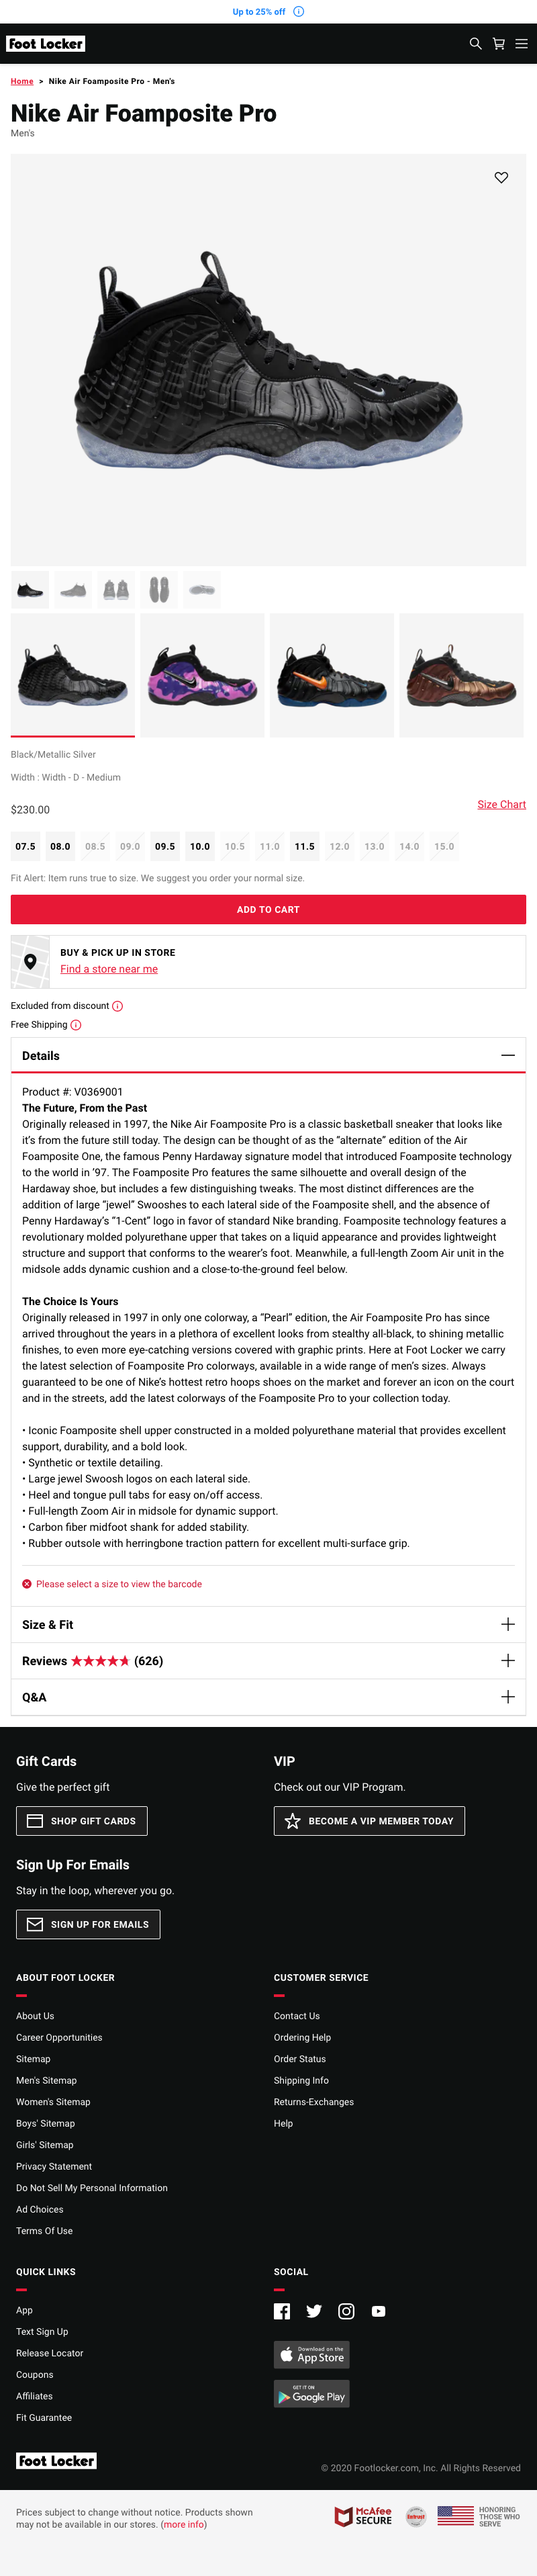
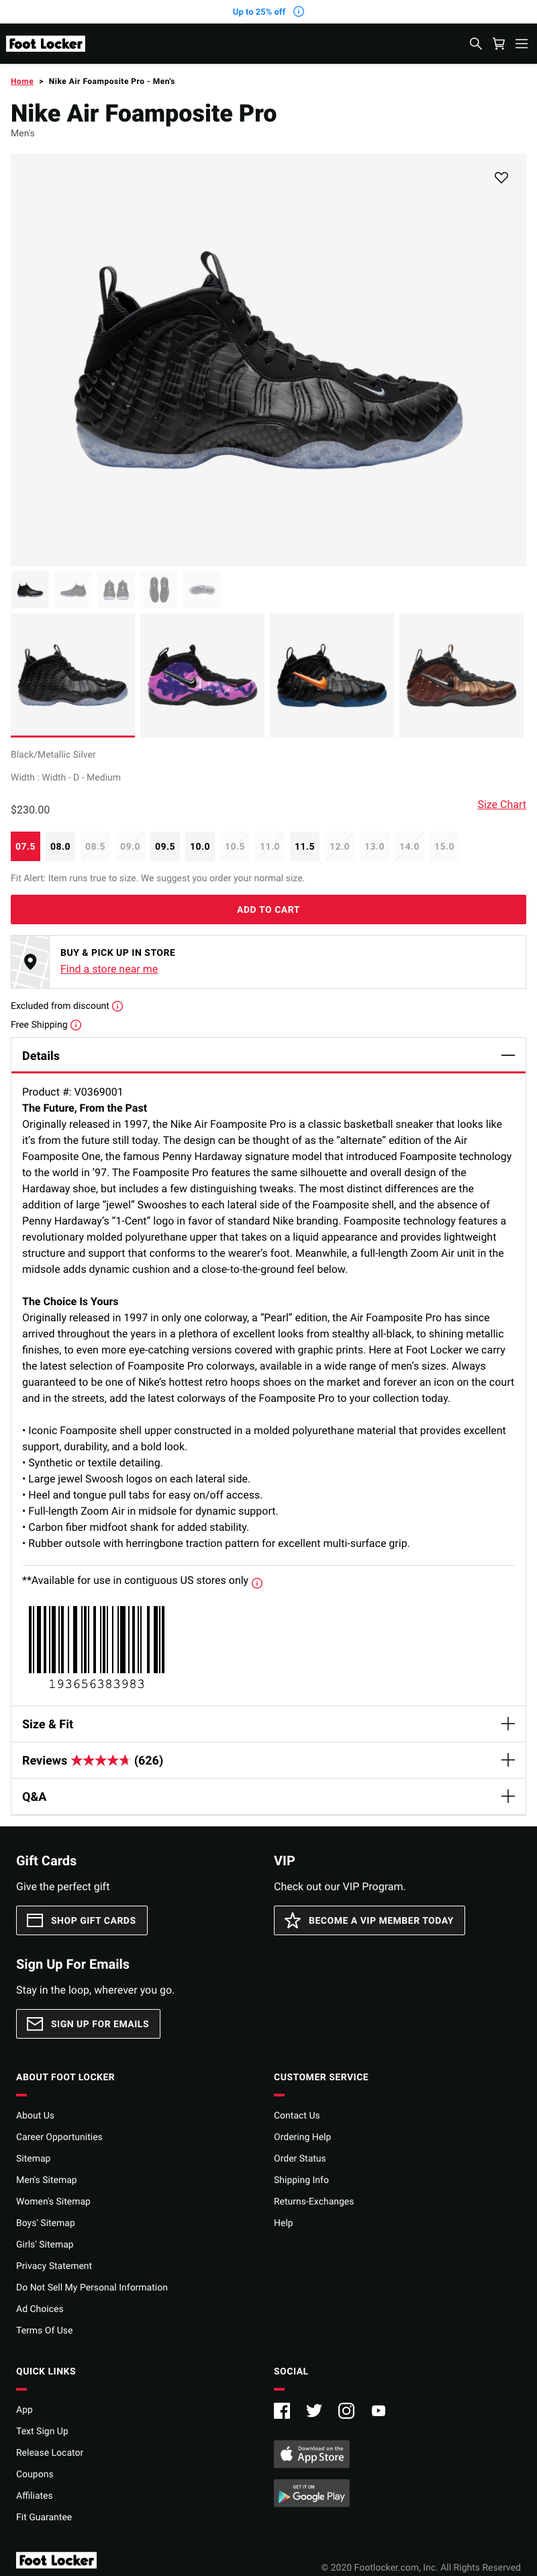
more tests

diff --git a/screenshot2.js b/screenshot2.js
@@ -38,27 +38,28 @@ puppeteer.launch({ headless: true }).then(async browser => {
 
 
 
-const query = "07.5";
+// const query = "07.5";
 
-page.evaluate(query => {
-  const elements = [...document.querySelectorAll('.c-form-field')];
+// page.evaluate(query => {
+//   const elements = [...document.querySelectorAll('.c-form-field')];
 
   // Either use .find or .filter, comment one of these
   // find element with find
-  const targetElement = elements.find(e => e.innerText.includes(query));
+  // const targetElement = elements.find(e => e.innerText.includes(query));
 
   // OR, find element with filter
   // const targetElement = elements.filter(e => e.innerText.includes(query))[0];
 
   // make sure the element exists, and only then click it
-  targetElement && targetElement.click();
-}, query)
+//   targetElement && targetElement.click();
+// }, query)
 
 
 
 //this here below is how I would click on a button to go to next page if it has a unique selector
-// await page.waitForSelector('#ProductDetails > div.ProductDetails-form__info > div.ProductDetails-form__sizes > fieldset > div > div.c-form-field.c-form-field--radio.c-form-field--checked.ProductSize', 10000) 
-// await page.click('#ProductDetails > div.ProductDetails-form__info > div.ProductDetails-form__sizes > fieldset > div > div.c-form-field.c-form-field--radio.c-form-field--checked.ProductSize');
+//so far, if a non unique selector is selected, it selects the first of course
+await page.waitForSelector('.ProductSize') 
+await page.click('.ProductSize');
 
 
 
